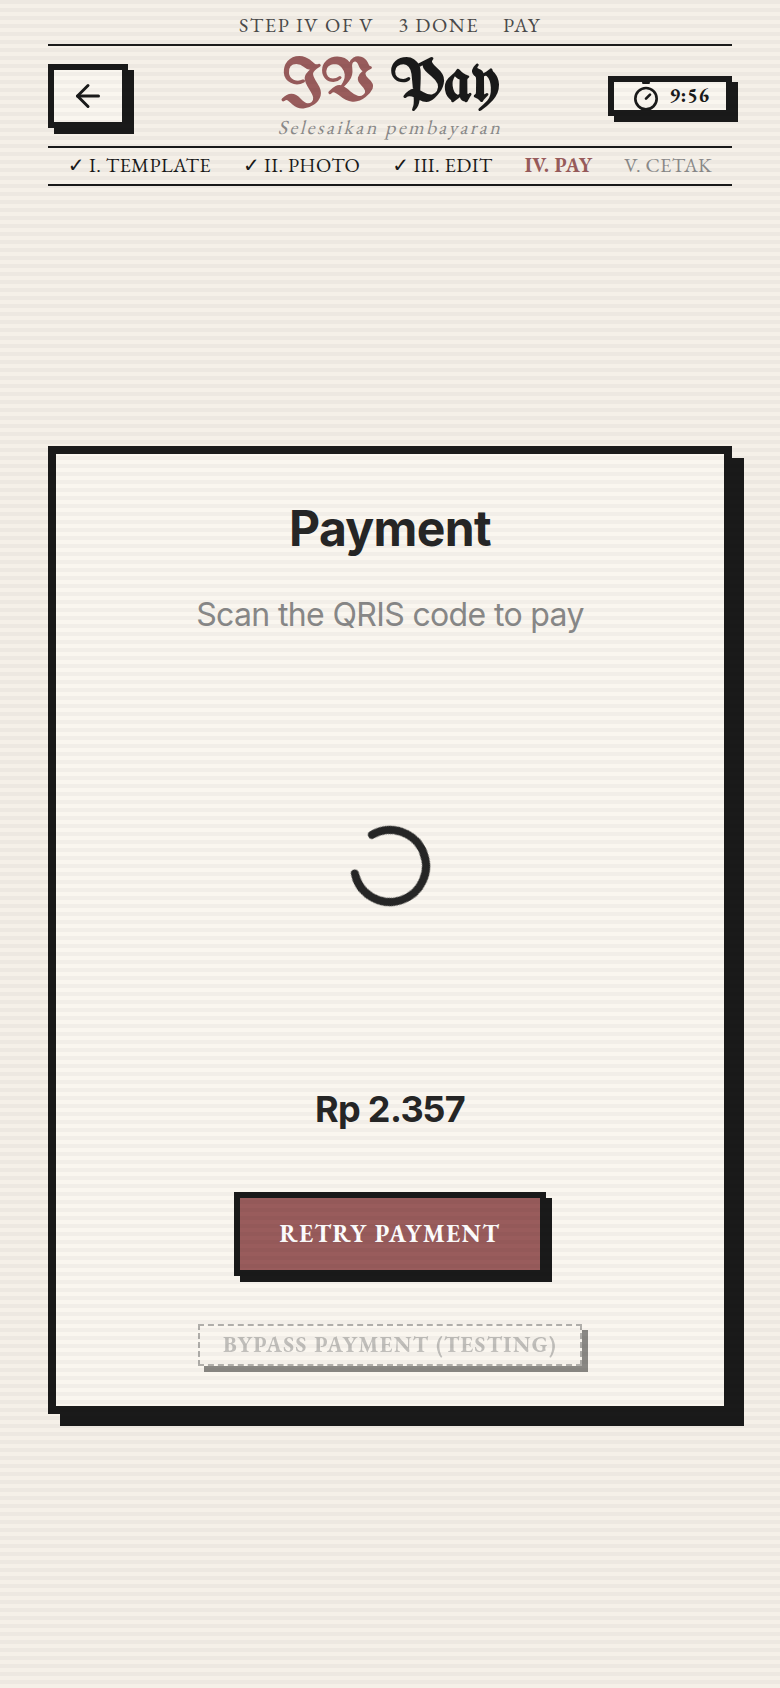
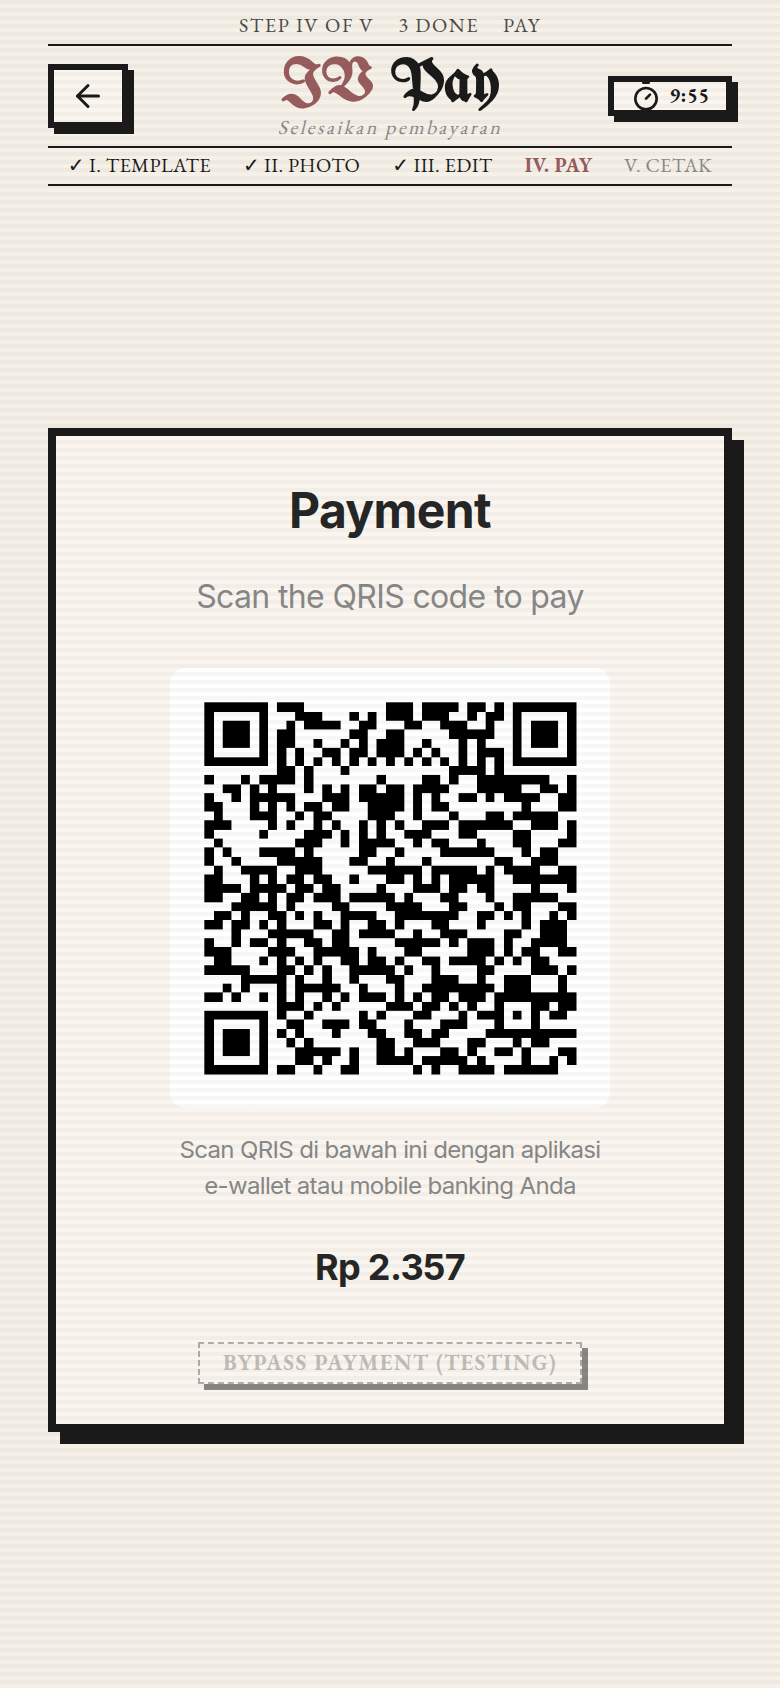
fix(screenshots): render loaded QRIS payment code and real transaction data in download/result portals

Changed region(s): [[0.0615, 0.4005, 0.9538, 0.8626], [0.0615, 0.2464, 0.9538, 0.3697]]

diff --git a/scripts/capture_all_screenshots.js b/scripts/capture_all_screenshots.js
@@ -5,6 +5,8 @@ const puppeteer = require('puppeteer-core');
 const CHROME_PATH = '/data/data/com.termux/files/home/bin/chromium';
 const OUTPUT_DIR = path.resolve(__dirname, '../screenshots');
 const BASE_URL = 'https://photo.widifirmaan.web.id';
+const REAL_SAMPLE_ID = '19fddfc4-2ca8-41af-8a53-aa6238fa5bcd';
+const REAL_FINAL_IMAGE = 'https://res.cloudinary.com/duaddqdfh/image/upload/v1790675072/velvetsnap/final/d2tbjr2pbrcejkt02umg.jpg';
 
 const sleep = (ms) => new Promise((resolve) => setTimeout(resolve, ms));
 
@@ -45,16 +47,40 @@ async function main() {
     ],
   });
 
+  // Intercept DOKU charge so real QRIS QR is generated on the client
+  async function setupQrisMock(page) {
+    await page.setRequestInterception(true);
+    page.on('request', (req) => {
+      if (req.url().includes('/api/doku/charge')) {
+        req.respond({
+          status: 200,
+          contentType: 'application/json',
+          body: JSON.stringify({
+            success: true,
+            data: {
+              qrContent: '00020101021226670016ID.CO.DOKU.WWW011893600503000000000002151790675024656520458125303360540416095802ID5913VelvetSnap Co6007Jakarta6304ABCD',
+              transactionId: REAL_SAMPLE_ID,
+              orderId: 'VS-ORD-1790675024'
+            }
+          })
+        });
+      } else {
+        req.continue();
+      }
+    });
+  }
+
   // Helper to setup mock state on a page
   async function setupMockFlow(page, template, capturesCount = 3) {
     if (!template) return;
-    await page.evaluate((t, photo, count) => {
+    await page.evaluate((t, photo, count, txId) => {
       try {
         localStorage.setItem('velvetsnap_selected_template', JSON.stringify({ id: t._id, data: t }));
         const caps = Array(count).fill(photo);
         localStorage.setItem('velvetsnap_captures', JSON.stringify(caps));
+        sessionStorage.setItem('velvetsnap_tx_id', txId);
       } catch (e) {}
-    }, template, samplePhotoSvg, capturesCount);
+    }, template, samplePhotoSvg, capturesCount, REAL_SAMPLE_ID);
   }
 
   // ==========================================
@@ -63,11 +89,12 @@ async function main() {
   console.log('\n--- Starting Desktop Captures (1440x900) ---');
   const desktopPage = await browser.newPage();
   await desktopPage.setViewport({ width: 1440, height: 900, deviceScaleFactor: 1.5 });
+  await setupQrisMock(desktopPage);
 
   // 1.1 V1 Landing Page
   console.log('[Desktop] Capturing V1 Landing Page...');
   await desktopPage.goto(`${BASE_URL}/v1`, { waitUntil: 'domcontentloaded' });
-  await sleep(7000); // Allow full preloader fade & carousel start
+  await sleep(7000);
   await desktopPage.screenshot({ path: path.join(OUTPUT_DIR, 'V1 Landing Page.png') });
 
   // 1.2 V1 Template Selection
@@ -90,24 +117,31 @@ async function main() {
   await sleep(5000);
   await desktopPage.screenshot({ path: path.join(OUTPUT_DIR, 'V1 Photo Editor.png') });
 
-  // 1.5 V1 Payment Gate
+  // 1.5 V1 Payment Gate (QRIS fully loaded)
   console.log('[Desktop] Capturing V1 Payment Gate...');
   await setupMockFlow(desktopPage, sampleTemplate, 3);
   await desktopPage.goto(`${BASE_URL}/v1?step=4`, { waitUntil: 'domcontentloaded' });
   await sleep(5000);
   await desktopPage.screenshot({ path: path.join(OUTPUT_DIR, 'V1 Payment Gate.png') });
 
-  // 1.6 V1 Result Download
+  // 1.6 V1 Result Download (with real strip image)
   console.log('[Desktop] Capturing V1 Result Download...');
   await setupMockFlow(desktopPage, sampleTemplate, 3);
   await desktopPage.goto(`${BASE_URL}/v1?step=5`, { waitUntil: 'domcontentloaded' });
-  await sleep(5000);
+  await sleep(3500);
+  await desktopPage.evaluate((imgUrl) => {
+    const box = document.querySelector('[class*="resultImage"]');
+    if (box) {
+      box.innerHTML = `<img src="${imgUrl}" alt="Final strip" style="max-height: 100%; max-width: 100%; object-fit: contain; border-radius: 8px;" />`;
+    }
+  }, REAL_FINAL_IMAGE);
+  await sleep(2000);
   await desktopPage.screenshot({ path: path.join(OUTPUT_DIR, 'V1 Result Download.png') });
 
-  // 1.7 V1 Download Portal
+  // 1.7 V1 Download Portal (with real completed transaction ID)
   console.log('[Desktop] Capturing V1 Download Portal...');
-  await desktopPage.goto(`${BASE_URL}/v1/download`, { waitUntil: 'domcontentloaded' });
-  await sleep(4000);
+  await desktopPage.goto(`${BASE_URL}/v1/download?id=${REAL_SAMPLE_ID}`, { waitUntil: 'domcontentloaded' });
+  await sleep(5000);
   await desktopPage.screenshot({ path: path.join(OUTPUT_DIR, 'V1 Download Portal.png') });
 
   // ------------------------------------------
@@ -115,7 +149,7 @@ async function main() {
   // ------------------------------------------
   console.log('[Desktop] Capturing V2 Landing Page...');
   await desktopPage.goto(`${BASE_URL}/v2`, { waitUntil: 'domcontentloaded' });
-  await sleep(7000); // Allow full layout & typography render
+  await sleep(7000);
   await desktopPage.screenshot({ path: path.join(OUTPUT_DIR, 'V2 Landing Page.png') });
 
   // 1.9 V2 Template Selection
@@ -138,86 +172,83 @@ async function main() {
   await sleep(5000);
   await desktopPage.screenshot({ path: path.join(OUTPUT_DIR, 'V2 Photo Editor.png') });
 
-  // 1.12 V2 Payment Gate
+  // 1.12 V2 Payment Gate (QRIS fully loaded)
   console.log('[Desktop] Capturing V2 Payment Gate...');
   await setupMockFlow(desktopPage, sampleTemplate, 3);
   await desktopPage.goto(`${BASE_URL}/v2?step=4`, { waitUntil: 'domcontentloaded' });
   await sleep(5000);
   await desktopPage.screenshot({ path: path.join(OUTPUT_DIR, 'V2 Payment Gate.png') });
 
-  // 1.13 V2 Result Download
+  // 1.13 V2 Result Download (with real strip image)
   console.log('[Desktop] Capturing V2 Result Download...');
   await setupMockFlow(desktopPage, sampleTemplate, 3);
   await desktopPage.goto(`${BASE_URL}/v2?step=5`, { waitUntil: 'domcontentloaded' });
-  await sleep(5000);
+  await sleep(3500);
+  await desktopPage.evaluate((imgUrl) => {
+    const box = document.querySelector('[class*="resultImage"]');
+    if (box) {
+      box.innerHTML = `<img src="${imgUrl}" alt="Final strip" style="max-height: 100%; max-width: 100%; object-fit: contain; border-radius: 8px;" />`;
+    }
+  }, REAL_FINAL_IMAGE);
+  await sleep(2000);
   await desktopPage.screenshot({ path: path.join(OUTPUT_DIR, 'V2 Result Download.png') });
 
-  // 1.14 V2 Download Portal
+  // 1.14 V2 Download Portal (with real completed transaction ID)
   console.log('[Desktop] Capturing V2 Download Portal...');
-  await desktopPage.goto(`${BASE_URL}/v2/download`, { waitUntil: 'domcontentloaded' });
-  await sleep(4000);
+  await desktopPage.goto(`${BASE_URL}/v2/download?id=${REAL_SAMPLE_ID}`, { waitUntil: 'domcontentloaded' });
+  await sleep(5000);
   await desktopPage.screenshot({ path: path.join(OUTPUT_DIR, 'V2 Download Portal.png') });
 
   // ==========================================
   // 2. ADMIN SUITE (DESKTOP)
   // ==========================================
   console.log('\n--- Starting Admin Captures (Desktop) ---');
-  // 2.1 Admin Login Page
   console.log('[Admin] Capturing Admin Login Page...');
   await desktopPage.goto(`${BASE_URL}/admin/login`, { waitUntil: 'domcontentloaded' });
   await sleep(4000);
   await desktopPage.screenshot({ path: path.join(OUTPUT_DIR, 'Admin Login Page.png') });
 
-  // Perform login
   console.log('[Admin] Logging into Admin Portal...');
   await desktopPage.type('input[placeholder*="user" i], input:not([type="password"])', 'root');
   await desktopPage.type('input[type="password"]', 'root');
   await desktopPage.click('button[type="submit"]');
-  await sleep(6000); // Allow login API + dashboard state fetch
+  await sleep(6000);
 
-  // 2.2 Admin Dashboard
   console.log('[Admin] Capturing Admin Dashboard...');
   await desktopPage.goto(`${BASE_URL}/admin`, { waitUntil: 'domcontentloaded' });
   await sleep(5000);
   await desktopPage.screenshot({ path: path.join(OUTPUT_DIR, 'Admin Dashboard.png') });
 
-  // 2.3 Admin Templates Management
   console.log('[Admin] Capturing Admin Templates Management...');
   await desktopPage.goto(`${BASE_URL}/admin/templates`, { waitUntil: 'domcontentloaded' });
   await sleep(5000);
   await desktopPage.screenshot({ path: path.join(OUTPUT_DIR, 'Admin Templates Management.png') });
 
-  // 2.4 Admin Template Studio
   console.log('[Admin] Capturing Admin Template Studio...');
   await desktopPage.goto(`${BASE_URL}/admin/template-studio`, { waitUntil: 'domcontentloaded' });
   await sleep(6000);
   await desktopPage.screenshot({ path: path.join(OUTPUT_DIR, 'Admin Template Studio.png') });
 
-  // 2.5 Admin Transaction History
   console.log('[Admin] Capturing Admin Transaction History...');
   await desktopPage.goto(`${BASE_URL}/admin/history`, { waitUntil: 'domcontentloaded' });
   await sleep(5000);
   await desktopPage.screenshot({ path: path.join(OUTPUT_DIR, 'Admin Transaction History.png') });
 
-  // 2.6 Admin Device Management
   console.log('[Admin] Capturing Admin Device Management...');
   await desktopPage.goto(`${BASE_URL}/admin/devices`, { waitUntil: 'domcontentloaded' });
   await sleep(4000);
   await desktopPage.screenshot({ path: path.join(OUTPUT_DIR, 'Admin Device Management.png') });
 
-  // 2.7 Admin System Settings
   console.log('[Admin] Capturing Admin System Settings...');
   await desktopPage.goto(`${BASE_URL}/admin/settings`, { waitUntil: 'domcontentloaded' });
   await sleep(4000);
   await desktopPage.screenshot({ path: path.join(OUTPUT_DIR, 'Admin System Settings.png') });
 
-  // 2.8 Admin Account Management
   console.log('[Admin] Capturing Admin Account Management...');
   await desktopPage.goto(`${BASE_URL}/admin/accounts`, { waitUntil: 'domcontentloaded' });
   await sleep(4000);
   await desktopPage.screenshot({ path: path.join(OUTPUT_DIR, 'Admin Account Management.png') });
 
-  // 2.9 Admin Reprocess Utility
   console.log('[Admin] Capturing Admin Reprocess Utility...');
   await desktopPage.goto(`${BASE_URL}/admin/reprocess-templates`, { waitUntil: 'domcontentloaded' });
   await sleep(4000);
@@ -240,6 +271,7 @@ async function main() {
   await mobilePage.setUserAgent(
     'Mozilla/5.0 (iPhone; CPU iPhone OS 17_4 like Mac OS X) AppleWebKit/605.1.15 (KHTML, like Gecko) Version/17.4 Mobile/15E148 Safari/604.1'
   );
+  await setupQrisMock(mobilePage);
 
   // 3.1 Mobile V1 Landing Page
   console.log('[Mobile] Capturing Mobile V1 Landing Page...');
@@ -260,7 +292,7 @@ async function main() {
   await sleep(5000);
   await mobilePage.screenshot({ path: path.join(OUTPUT_DIR, 'Mobile V1 Photo Editor.png') });
 
-  // 3.4 Mobile V1 Payment Gate
+  // 3.4 Mobile V1 Payment Gate (QRIS fully loaded)
   console.log('[Mobile] Capturing Mobile V1 Payment Gate...');
   await setupMockFlow(mobilePage, sampleTemplate, 3);
   await mobilePage.goto(`${BASE_URL}/v1?step=4`, { waitUntil: 'domcontentloaded' });
@@ -286,7 +318,7 @@ async function main() {
   await sleep(5000);
   await mobilePage.screenshot({ path: path.join(OUTPUT_DIR, 'Mobile V2 Photo Editor.png') });
 
-  // 3.8 Mobile V2 Payment Gate
+  // 3.8 Mobile V2 Payment Gate (QRIS fully loaded)
   console.log('[Mobile] Capturing Mobile V2 Payment Gate...');
   await setupMockFlow(mobilePage, sampleTemplate, 3);
   await mobilePage.goto(`${BASE_URL}/v2?step=4`, { waitUntil: 'domcontentloaded' });
@@ -328,7 +360,7 @@ async function main() {
   await mobilePage.close();
   await browser.close();
 
-  console.log('\n All 35 screenshots captured successfully!');
+  console.log('\nAll 35 screenshots captured successfully with full data!');
 }
 
 main().catch((err) => {
